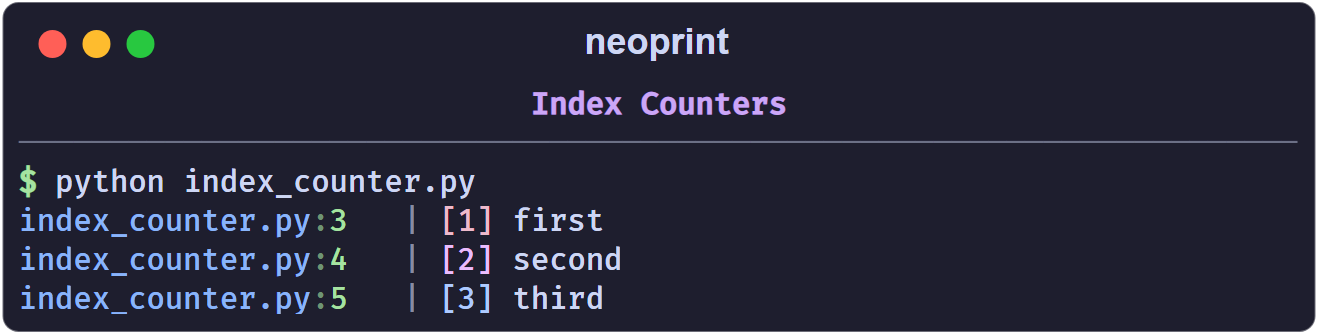
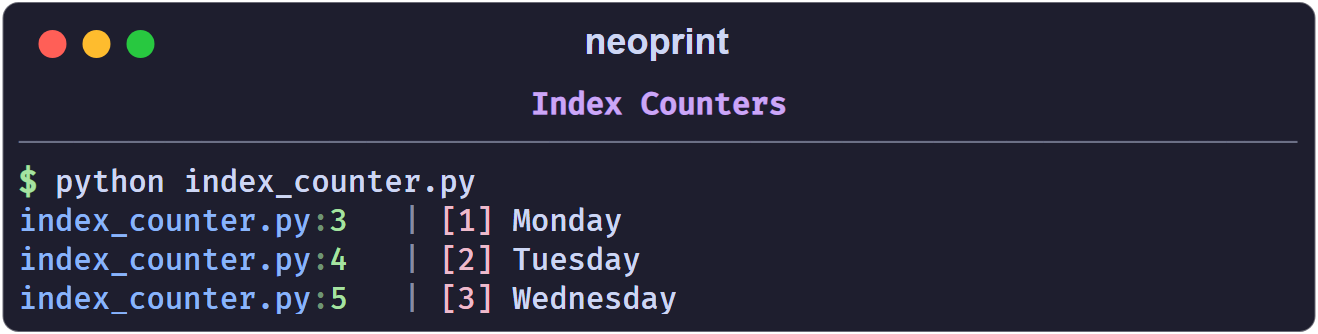
fix scoped counter's index color

Changed region(s): [[0.3111, 0.8383, 0.5288, 0.9281], [0.3422, 0.7186, 0.4977, 0.8084], [0.3733, 0.6287, 0.4666, 0.7186]]

diff --git a/neoprint/markup.py b/neoprint/markup.py
@@ -2,6 +2,7 @@ import re
 import typing as tp
 
 from .config import config
+from .console import dprint
 from .frame import FrameInfo
 from .scope import counter
 from .scope import scope_mgr
@@ -226,7 +227,28 @@ class MarkupAnalyzer:
                     target_frame.file_path, target_frame.function_name
                 )
             )
-            out['i'] = (cnt, counter.get_color_by_frame(target_frame))
+            out['i'] = (
+                cnt,
+                counter.get_color_by_id(
+                    scope_mgr.current_scope
+                    or '{}:{}'.format(
+                        target_frame.file_path, target_frame.function_name
+                    )
+                ),
+            )
+            dprint(
+                scope_mgr.current_scope,
+                '{}:{}'.format(
+                    target_frame.file_path, target_frame.function_name
+                ),
+                cnt,
+                counter.get_color_by_id(
+                    scope_mgr.current_scope
+                    or '{}:{}'.format(
+                        target_frame.file_path, target_frame.function_name
+                    )
+                ),
+            )
         elif marks['i'] == 3:
             cnt = counter.update_global_index()
             out['i'] = (cnt, 'red')

diff --git a/docs/user_manual/scripts/generate_images.py b/docs/user_manual/scripts/generate_images.py
@@ -233,9 +233,9 @@ def _render_index_counter() -> None:
         """
         import neoprint as np
 
-        np.show(':i2', 'first')
-        np.show(':i2', 'second')
-        np.show(':i2', 'third')
+        np.show(':i2', 'Monday')
+        np.show(':i2', 'Tuesday')
+        np.show(':i2', 'Wednesday')
         """,
     )
 
@@ -244,18 +244,27 @@ def _render_index_scopes() -> None:
     render(
         'index-scopes',
         'Custom Scopes',
-        'python scopes.py',
+        'python index_scopes.py',
         74,
-        'scopes.py',
+        'index_scopes.py',
         """
         import neoprint as np
 
-        with np.scope(name='download'):
+        np.config(show_funcname=True)
+
+        def foo():
             np.show(':i2', 'file A')
             np.show(':i2', 'file B')
+            np.show(':i2', 'file C')
+            np.show(':i2', 'file D')
+            np.show(':i2', 'file E')
 
-        with np.scope():
+        def bar():
             np.show(':i2', 'anonymous 1')
+            np.show(':i2', 'anonymous 2')
+
+        foo()
+        bar()
         """,
     )
 

diff --git a/test/index_counter.py b/test/index_counter.py
@@ -1,19 +1,36 @@
-from neoprint import print
+import neoprint as np
+
+np.config(show_funcname=True)
 
 
 def main():
     for i in range(10):
         if i % 2 == 0:
-            print('number is even', i, ':i')
+            np.show('number is even', i, ':i2')
         else:
-            print('number is odd', i, ':i')
+            np.show('number is odd', i, ':i2')
 
-    print(':d', 'separately count')
+    np.show(':d', 'separately count')
     for i in range(10):
         if i % 2 == 0:
-            print('number is even', i, ':i1')
+            np.show('number is even', i, ':i1')
         else:
-            print('number is odd', i, ':i1')
+            np.show('number is odd', i, ':i1')
 
 
+def foo():
+    np.show(':i2', 'file A')
+    np.show(':i2', 'file B')
+    np.show(':i2', 'file C')
+    np.show(':i2', 'file D')
+    np.show(':i2', 'file E')
+
+
+def bar():
+    np.show(':i2', 'anonymous 1')
+    np.show(':i2', 'anonymous 2')
+
+
+foo()
+bar()
 main()

diff --git a/neoprint/scope/counter.py b/neoprint/scope/counter.py
@@ -11,11 +11,14 @@ class Counter:
         self._scoped_indexes = defaultdict(int)
 
     def get_color_by_frame(self, frame: FrameInfo) -> str:
-        if frame.id not in self._colors:
+        return self.get_color_by_id(frame.id)
+
+    def get_color_by_id(self, id: str) -> str:
+        if id not in self._colors:
             # random bright color
             # https://stackoverflow.com/questions/43437309
-            self._colors[frame.id] = '#' + ''.join(choices('89abcdef', k=6))
-        return self._colors[frame.id]
+            self._colors[id] = '#' + ''.join(choices('89abcdef', k=6))
+        return self._colors[id]
 
     def reset(self) -> None:
         self._global_index = 0

diff --git a/neoprint/text_object/source.py b/neoprint/text_object/source.py
@@ -65,11 +65,7 @@ class Source(TextObject):
 class FunctionName(Text):
     def __init__(self, frame: FrameInfo) -> None:
         super().__init__(
-            _pad_text(
-                frame.function_name,
-                unit_width=2,
-                least_width=8,  # 8 for the length of '<module>'
-            ),
+            _pad_text(frame.function_name, unit_width=2, least_width=4),
             color='yellow',
         )
 

diff --git a/docs/user_manual/scripts/scenes/index_scopes.py b/docs/user_manual/scripts/scenes/index_scopes.py
@@ -1,0 +1,17 @@
+import neoprint as np
+
+np.config(show_funcname=True)
+
+def foo():
+    np.show(':i2', 'file A')
+    np.show(':i2', 'file B')
+    np.show(':i2', 'file C')
+    np.show(':i2', 'file D')
+    np.show(':i2', 'file E')
+
+def bar():
+    np.show(':i2', 'anonymous 1')
+    np.show(':i2', 'anonymous 2')
+
+foo()
+bar()

diff --git a/docs/user_manual/scripts/scenes/index_counter.py b/docs/user_manual/scripts/scenes/index_counter.py
@@ -1,5 +1,5 @@
 import neoprint as np
 
-np.show(':i2', 'first')
-np.show(':i2', 'second')
-np.show(':i2', 'third')
+np.show(':i2', 'Monday')
+np.show(':i2', 'Tuesday')
+np.show(':i2', 'Wednesday')
